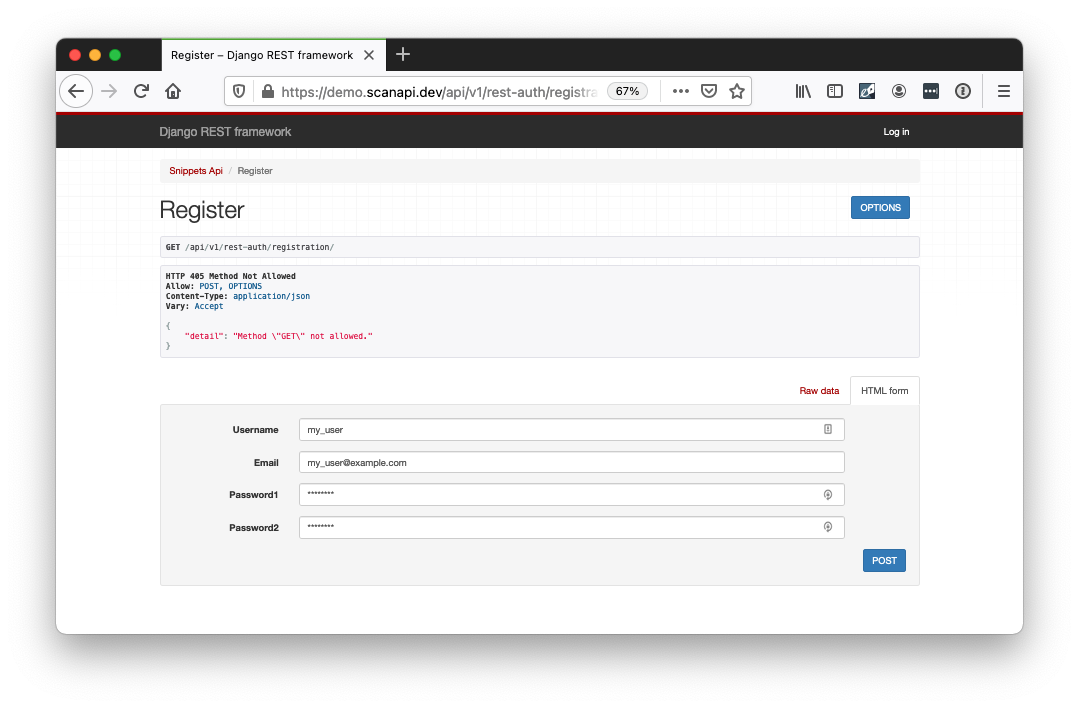
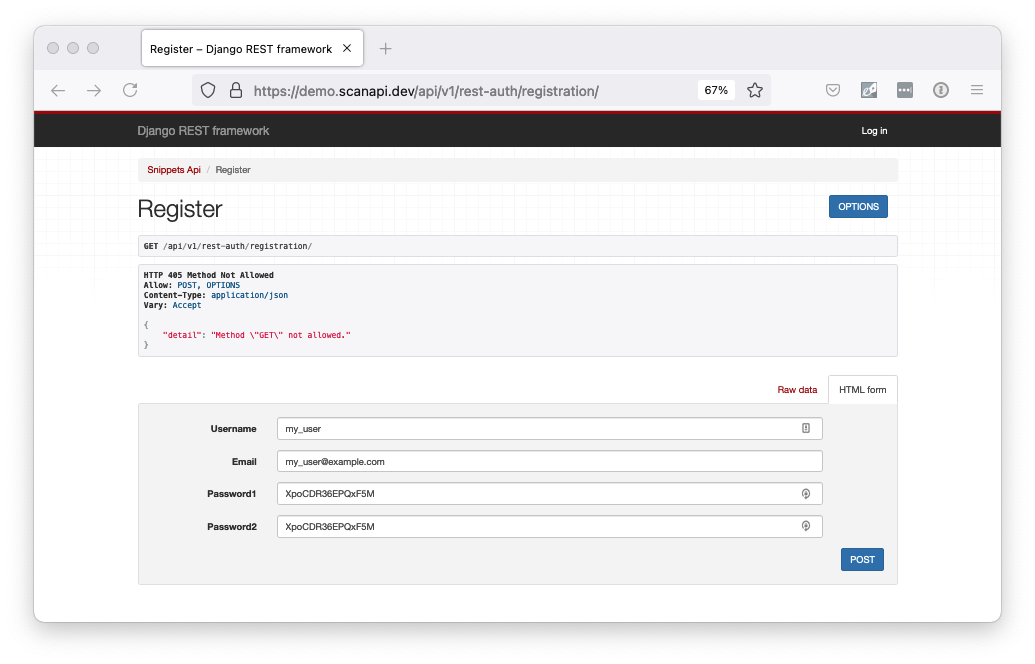
Improving tutorial text (#81)

diff --git a/_tutorials/page2.md b/_tutorials/page2.md
@@ -12,7 +12,10 @@ This tutorial will use our demo API, Snippets API, to show how to use ScanAPI. S
 built based on the [Django REST Framework's tutorial][drf-tutorial]. You can access it at
 [demo.scanapi.dev/](https://demo.scanapi.dev/).
 
-The main goal of this API is to manage code snippets. Each code snippet have the corresponding
+Certainly, you can use ScanAPI to document and test any REST API. We are only using Snippets API
+to demonstrate it.
+
+The main goal of this API is to manage code snippets. Each code snippet has a corresponding
 syntax highlight for it, based on the language, linenos and style.
 
 This is an example of a code snippet:
@@ -45,11 +48,31 @@ and this is its highlighted version: [demo.scanapi.dev/api/v1/snippets/2/highlig
 ### Documentation
 
 You can access the Snippets API [swagger][swagger] documentation at:
-[demo.scanapi.dev/api/v1/swagger-ui/](https://demo.scanapi.dev/api/v1/swagger-ui/)
+[demo.scanapi.dev/api/v1/swagger-ui/](https://demo.scanapi.dev/api/v1/swagger-ui/).
 
 ## Sign Up
 
-Visit the [registration page][demo-api-registration] and create a new user:
+Snippets API have two types of endpoints:
+
+- \- Endpoints that does not require authentication.
+  Ex: `GET /heath`, `GET /snippets`
+- \- Endpoints that requires authentication.
+  Ex: `POST /snippets`, `DELETE /snippets/<snippet_id>`.
+  Authentication is required because it is important to store which user made that action.
+  Like who created/deleted/updated a snippet code, for example.
+
+In order to be able to test the endpoints that require authentication, let's register a new user
+in the Snippets API.
+
+For that, visit the [Snippets API registration page][demo-api-registration] and
+
+- \- Fill the username field with a username that you like
+- \- Fill the email field with your email
+- \- Fill the password1 field with your password.
+- \- Fill the password2 field with the same password - it is a password confirmation.
+
+The two password fields will display plain text (the info will not be hidden with `*`),
+but don't worry, it will be stored in the database properly.
 
 <p align="center">
   <img
@@ -59,6 +82,8 @@ Visit the [registration page][demo-api-registration] and create a new user:
   >
 </p>
 
+Hit the button `POST`. You should see a screen similar to this:
+
 <p align="center">
   <img
     src="/assets/images/tutorial/page2/registration-complete.png"
@@ -67,11 +92,24 @@ Visit the [registration page][demo-api-registration] and create a new user:
   >
 </p>
 
-Great, now that you already have an user registered in the Snippets API, let's get started using
-ScanAPI!
+The response will return a `key` to you, this is your **Authentication Token**.
+It is used to make requests that need authentication by sending its value in the HTTP request
+header:
+
+```
+Authorization: Token <your_token>
+```
+
+You don't need to worry on saving this value. We will get it dynamically with ScanAPI later.
+You only need to remember your username and your password. 🔑
+
+Great, now that you already have an user registered, you can close the registration page.
+Take a look around and get familiar with the [Snippets API][snippets-api]. After feeling comfortable with it,
+you are ready to get started using ScanAPI!
 
 [demo-api-registration]: https://demo.scanapi.dev/api/v1/rest-auth/registration/
 [demo-api-swagger]: https://demo.scanapi.dev/api/v1/swagger-ui/
 [demo-api]: https://demo.scanapi.dev/
 [drf-tutorial]: https://www.django-rest-framework.org/tutorial/1-serialization/
+[snippets-api]: https://demo.scanapi.dev/api/v1/
 [swagger]: https://swagger.io/

diff --git a/_tutorials/page5.md b/_tutorials/page5.md
@@ -8,22 +8,23 @@ next_page_title: Hide Info
 
 # Environment Variables (env vars)
 
-Once you have already [register an user][docs-sign-up] for the Snippets API, you can test and document
-the `/login` request.
+Once you have already [register an user][docs-sign-up] for the Snippets API, you can test and
+document the `/login` request.
 
-It is not secure to explicitly write your username and password in a plain text. For this reason,
-let's use [environment variables][env-var-definition].
+It is not secure to explicitly write your API's username and password in a plain text.
+For this reason, let's use [environment variables][env-var-definition].
 
 ## Setting Env Vars
 
 Let's set your env vars:
 
 ```shell
-$ export USER=<put_your_username_here>
-$ export PASSWORD=<put_your_password_here>
+$ export USER=<your_snippets_api_username_here>
+$ export PASSWORD=<your_snippets_api_password_here>
 ```
 
-Example:
+The username and the password should be the ones you registered in the
+[API Sign Up page][docs-sign-up]. Example:
 
 ```shell
 $ export USER=my_user
@@ -53,9 +54,9 @@ The folder structure should look like this now:
 
 ```
 - scanapi (root directory)
-  - .env
-  - scanapi-report.html
-  - scanapi.yaml
+|── .env
+|── scanapi-report.html
+|___  scanapi.yaml
 ```
 
 Every time you need to load your env vars again, you can just run:
@@ -70,7 +71,7 @@ It is time to use the exported env vars in the ScanAPI specification in order to
 In the `scanapi.yaml` file, add the `get_token` request:
 
 ```yaml
-endpoints:
+{% raw %}endpoints:
   - name: snippets-api
     path: http://demo.scanapi.dev/api/v1/
     headers:
@@ -81,15 +82,15 @@ endpoints:
         path: /health/
         tests:
           - name: status_code_is_200
-            assert: {% raw %} ${{ response.status_code == 200 }} {% endraw %}
+            assert: ${{ response.status_code == 200 }}
           - name: body_equals_ok
-            assert: {% raw %} ${{ response.json() == "OK!" }} {% endraw %}
+            assert: ${{ response.json() == "OK!" }}
       - name: get_token # this is new
         path: /rest-auth/login/ # this is new
         method: post # this is new
         body: # this is new
           username: ${USER} # this is new
-          password: ${PASSWORD} # this is new
+          password: ${PASSWORD}{% endraw %} # this is new
 ```
 
 Using the [env var notation][docs-env-vars], ScanAPI will be able to access the exported values of

diff --git a/_tutorials/page4.md b/_tutorials/page4.md
@@ -12,7 +12,7 @@ It is time to test the response you received. Change your specification file `sc
 the following content:
 
 ```yaml
-endpoints:
+{% raw %}endpoints:
   - name: snippets-api
     path: http://demo.scanapi.dev/api/v1/
     headers:
@@ -23,9 +23,9 @@ endpoints:
         path: /health/
         tests: # this is new
           - name: status_code_is_200 # this is new
-            assert: {% raw %} ${{ response.status_code == 200 }} {% endraw %} # this is new
+            assert: ${{ response.status_code == 200 }} # this is new
           - name: body_equals_ok # this is new
-            assert: {% raw %} ${{ response.json() == "OK!" }} {% endraw %} # this is new
+            assert: ${{ response.json() == "OK!" }} {% endraw %} # this is new
 ```
 
 Run ScanAPI again:
@@ -48,8 +48,20 @@ Inside the {% raw %} `${{ }}` {% endraw %} notation, you can write pure [Python 
 `response` is a [requests.Response][requests-response] object containing the response information
 of the request.
 
-Note that the `Tests Summary` now brings some useful information about the tests. If anything goes
-wrong or if any test fails, `scanapi` command will return an error with the corresponding exit code.
+Note that the `Tests Summary` brings some useful information about the tests now.
+If anything goes wrong or if any test fails, `scanapi` command will return an error with the
+corresponding exit code.
+
+<p align="center">
+  <img
+    src="/assets/images/tutorial/page4/report-tests-summary.png"
+    width="900"
+    alt="Tests summary"
+  >
+</p>
+
+Congrats, you have documented and tested your first request! Now, it is time to start testing
+endpoints that need authentication.
 
 [python-code]: http://127.0.0.1:4000/docs_v1/specification/python_code.html
 [requests-response]: https://docs.python-requests.org/en/latest/api/#requests.Response

diff --git a/_tutorials/page7.md b/_tutorials/page7.md
@@ -24,7 +24,7 @@ Let's create your first code snippet! In the `scanapi.yaml` file, add the `creat
       assert: ${{ response.status_code == 201 }}{% endraw %}
 ```
 
-Putting all together:
+Putting it all together:
 
 ```yaml
 {% raw %}endpoints:
@@ -85,8 +85,8 @@ $ scanapi run
 </p>
 
 Oops, the response is Unauthorized. That makes the test fail and also, we could not create the
-snippet code. To fix it, we need to send the key received in the `/login` response in
-the Authorization headers of `/snippets`.
+snippet code. To fix it, we need to send the **Authentication Token** received in the `/login`
+response in the Authorization headers of `/snippets`.
 
 In the `scanapi.yaml` file, in the `get_token` request, let's store the received key in the `token`
 variable:
@@ -103,7 +103,7 @@ and in the `create_snippet` request, let's send the token in via `Authorization`
   Authorization: Token ${token}{% endraw %}
 ```
 
-Putting all together:
+Putting it all together:
 
 ```yaml
 {% raw %}endpoints:
@@ -216,7 +216,7 @@ and let's create a new request to get the details of your brand new snippet:
       assert: ${{ response.status_code == 200 }}{% endraw %}
 ```
 
-Putting all together:
+Putting it all together:
 
 ```yaml
 {% raw %}endpoints:

diff --git a/_tutorials/page12.md b/_tutorials/page12.md
@@ -47,12 +47,12 @@ The folder structure should look like this now:
 
 ```
 - scanapi (root directory)
-  - .env
-  - csv_template.jinja
-  - scanapi-report.html
-  - scanapi.conf
-  - scanapi.yaml
-  - snippets.yaml
+|── .env
+|── csv_template.jinja
+|── scanapi-report.html
+|── scanapi.conf
+|── scanapi.yaml
+|___  snippets.yaml
 ```
 
 Let's run ScanAPI using the new csv template and sava the results in the `scanapi-report.csv` file:
@@ -75,13 +75,13 @@ This should be the final folder structure:
 
 ```
 - scanapi (root directory)
-  - .env
-  - csv_template.jinja
-  - scanapi-report.csv
-  - scanapi-report.html
-  - scanapi.conf
-  - scanapi.yaml
-  - snippets.yaml
+|── .env
+|── csv_template.jinja
+|── scanapi-report.csv
+|── scanapi-report.html
+|── scanapi.conf
+|── scanapi.yaml
+|___  snippets.yaml
 ```
 
 Congratulations, you have finished documenting and testing the Snippets API using ScanAPI! 🎉

diff --git a/_tutorials/page1.md b/_tutorials/page1.md
@@ -17,7 +17,7 @@ ScanAPI is a Python library. For installing ScanAPI, you will need:
 - \- [python][python] version 3.6 or higher
 - \- [pip][pip-installation], the standard package manager for Python
 
-If you are new in the Python world, no worries, this
+If you are new to the Python world, no worries, this
 [Installation & Setup Guide][realpython-setup-guide] can help you with more detailed instructions.
 
 With Python and pip installed, install ScanAPI from the terminal:
@@ -33,7 +33,7 @@ $ scanapi --version
 scanapi, version 2.3.0
 ```
 
-The output should return a version equals or higher 2.3.0.
+The output should return a version equal to 2.3.0 or higher.
 
 [pip-installation]: https://pip.pypa.io/en/stable/installing/
 [python]: https://www.python.org/

diff --git a/_tutorials/page6.md b/_tutorials/page6.md
@@ -26,10 +26,10 @@ The folder structure should look like this now:
 
 ```
 - scanapi (root directory)
-  - .env
-  - scanapi-report.html
-  - scanapi.conf
-  - scanapi.yaml
+|── .env
+|── scanapi-report.html
+|── scanapi.conf
+|___  scanapi.yaml
 ```
 
 Let's run ScanAPI again and reload the report:
@@ -55,6 +55,6 @@ $ scanapi run
 </p>
 
 Note that all sensitive fields are properly hidden now. Great, so let's make some authenticated
-requests using the key we received in the `/login` response.
+requests using the **Authentication Token** you received in the `/login` response.
 
 [docs-hide-sensitive-info]: /docs_v1/configuration/hiding_sensitive_information.html

diff --git a/_tutorials/page10.md b/_tutorials/page10.md
@@ -104,14 +104,15 @@ Also, this should be the folder structure:
 
 ```
 - scanapi (root directory)
-  - .env
-  - scanapi-report.html
-  - scanapi.conf
-  - scanapi.yaml
-  - snippets.yaml
+|── .env
+|── scanapi-report.html
+|── scanapi.conf
+|── scanapi.yaml
+|___  snippets.yaml
 ```
 
-Worth notice that you can recursively include files. In our example, the `snippets.yaml` could be composed of as many includes you want.
+Worth noticing that you can recursively include files. In our example, the `snippets.yaml` could be
+composed of as many includes as you want.
 
 Awesome, the code is way more clean now. The next step is to add a title to your report!
 

diff --git a/_tutorials/page3.md b/_tutorials/page3.md
@@ -35,7 +35,7 @@ The folder structure should look like this now:
 
 ```
 - scanapi (root directory)
-  - scanapi.yaml
+└── scanapi.yaml
 ```
 
 And let's run ScanAPI, so it will hit and document the specified endpoint:
@@ -65,7 +65,7 @@ It is time to check the results! Open the generated file `scanapi-report.html` i
   >
 </p>
 
-Collapse the request component to see more details. First, the details of the request itself:
+Expand the request component to see more details. First, the details of the request itself:
 
 <p align="center">
   <img

diff --git a/_tutorials/page8.md b/_tutorials/page8.md
@@ -103,5 +103,5 @@ The same happens with the `path`. Declaring `/snippets` in the parent makes that
 have this path concatenated to its URL.
 
 If you run ScanAPI again and reload the report, the results should be similar as before. Awesome,
-we have already reached a better result. Still, we can keep improving it. Let's see how can we
+we have already reached a better result. Still, we can keep improving on it. Let's see how we can
 refactor the code using the ScanAPI default values.

diff --git a/_tutorials/page11.md b/_tutorials/page11.md
@@ -15,7 +15,7 @@ APIs. To do so, we need to set the `project_name` in the configuration file `sca
 project_name: Snippets API
 ```
 
-Putting all together:
+Putting it all together:
 
 ```yaml
 project_name: Snippets API
